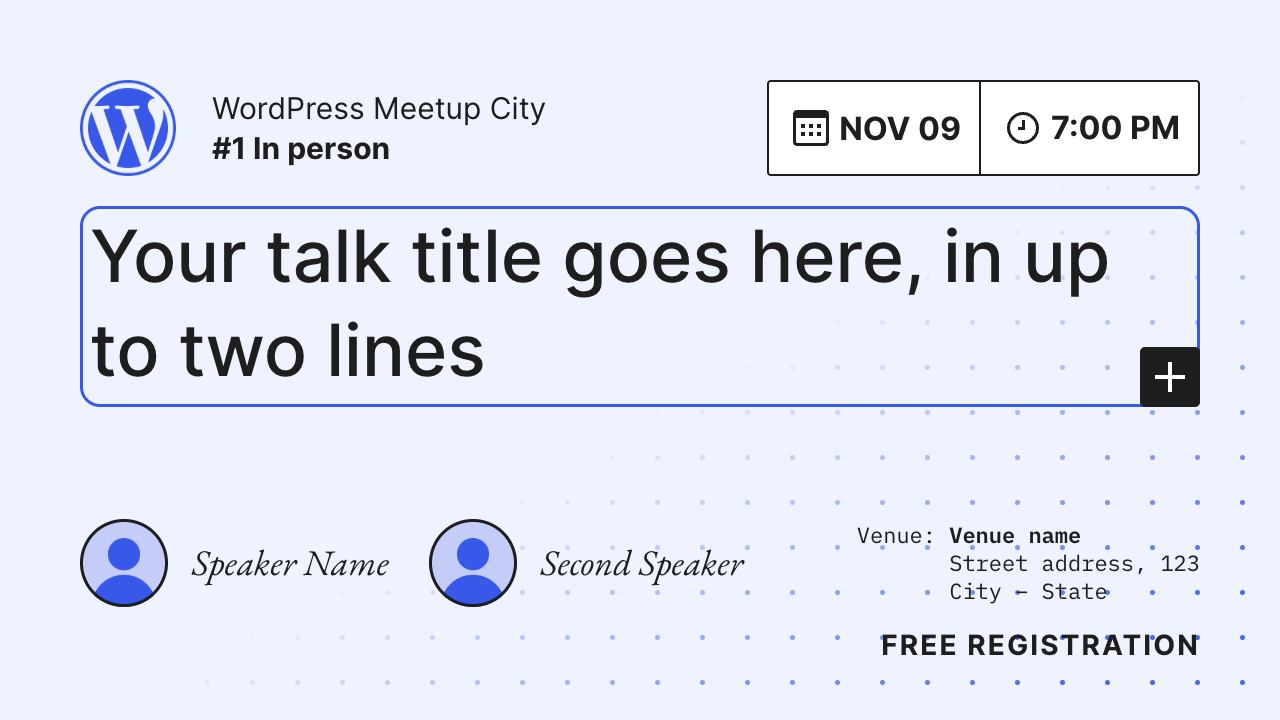
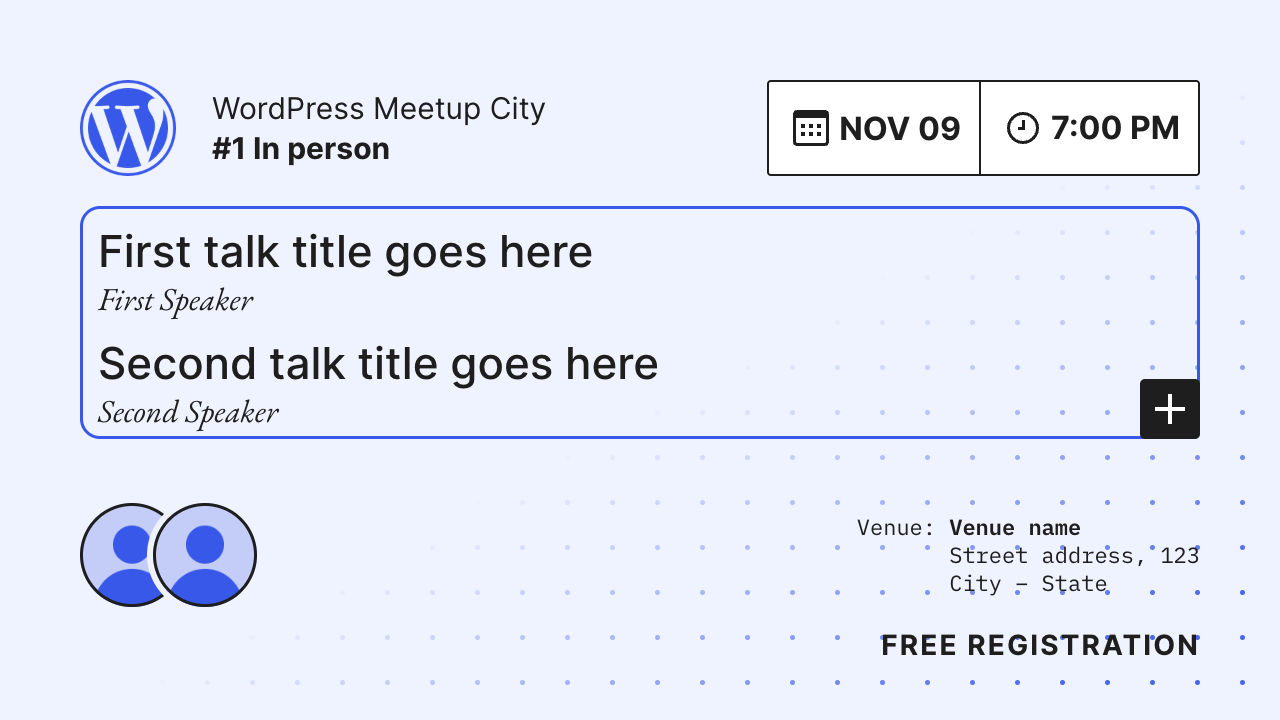
Two speakers: both talks (title and speaker) stacked in the box, photos partly overlapping below

Changed region(s): [[0.0625, 0.3056, 0.9375, 0.6111], [0.0625, 0.7028, 0.5938, 0.8556], [0.6562, 0.7028, 0.9375, 0.8556]]

diff --git a/meetup-thumbnail-generator/assets/style.css b/meetup-thumbnail-generator/assets/style.css
@@ -209,14 +209,6 @@ body:has(.mtg-thumb-page) .wp-site-blocks {
 	margin-top: auto;
 }
 
-/* One or two speakers (a second .mtg-guest makes both smaller). */
-.mtg-thumb .mtg-guests {
-	display: flex;
-	flex-wrap: wrap;
-	align-items: center;
-	gap: 1rem clamp(1rem, 3.125vw, 2.5rem);
-}
-
 .mtg-thumb .mtg-guest {
 	display: flex;
 	align-items: center;
@@ -238,13 +230,49 @@ body:has(.mtg-thumb-page) .wp-site-blocks {
 	letter-spacing: normal;
 }
 
-.mtg-thumb .mtg-guests:has(> .mtg-guest + .mtg-guest) .mtg-avatar img {
-	width: clamp(3rem, 6.875vw, 88px);
-	height: clamp(3rem, 6.875vw, 88px);
+/* Two talks: each title with its speaker in the box, one above the other
+   (clear of the inserter on the right), and the two photos partly
+   overlapping below, the second one over the first with a ring in the
+   background color. */
+.mtg-thumb .mtg-talks {
+	display: flex;
+	flex-direction: column;
+	grid-area: 1 / 1;
+	gap: clamp(.75rem, 1.5625vw, 1.25rem);
+	padding: clamp(.5rem, 1.25vw, 1rem) clamp(2rem, 4.6875vw, 3.75rem) 0 clamp(.25rem, .625vw, .5rem);
 }
 
-.mtg-thumb .mtg-guests:has(> .mtg-guest + .mtg-guest) .mtg-guest-name {
-	font-size: clamp(1.25rem, 2.8125vw, 2.25rem);
+.mtg-thumb .mtg-talk {
+	display: flex;
+	flex-direction: column;
+	gap: clamp(.125rem, .3125vw, .25rem);
+}
+
+.mtg-thumb .mtg-talk-title {
+	font: 500 clamp(1.25rem, 3.4375vw, 2.75rem)/1.2 "MTG Inter", sans-serif;
+	letter-spacing: normal;
+	color: inherit;
+}
+
+.mtg-thumb .mtg-talk-speaker {
+	font: italic 400 clamp(1rem, 2.5vw, 2rem)/1.1 "MTG EB Garamond", serif;
+	letter-spacing: normal;
+}
+
+.mtg-thumb .mtg-avatars {
+	--size: clamp(3.5rem, 8.125vw, 104px);
+	display: flex;
+	align-items: center;
+}
+
+.mtg-thumb .mtg-avatars .mtg-avatar img {
+	width: var(--size);
+	height: var(--size);
+	box-shadow: 0 0 0 clamp(3px, .46875vw, 6px) #eff2ff;
+}
+
+.mtg-thumb .mtg-avatars .mtg-avatar + .mtg-avatar {
+	margin-left: calc(-.3 * var(--size));
 }
 
 /* "Local: " then the address lines under the name (hanging indent of 7
@@ -416,15 +444,11 @@ body:has(.mtg-thumb-page) .wp-site-blocks {
 		border-radius: calc(2.67 * var(--u));
 	}
 
-	.mtg-thumb .mtg-guests {
+	.mtg-thumb .mtg-guest,
+	.mtg-thumb .mtg-avatars {
 		grid-area: guest;
-		flex-wrap: nowrap;
 		gap: calc(12 * var(--u));
 		margin-top: calc(12 * var(--u));
-	}
-
-	.mtg-thumb .mtg-guest {
-		gap: calc(12 * var(--u));
 	}
 
 	.mtg-thumb .mtg-avatar img {
@@ -438,19 +462,31 @@ body:has(.mtg-thumb-page) .wp-site-blocks {
 		font-size: calc(23 * var(--u));
 	}
 
-	.mtg-thumb .mtg-guests:has(> .mtg-guest + .mtg-guest) .mtg-guest {
-		flex: 1;
-		gap: calc(8 * var(--u));
+	.mtg-thumb .mtg-avatars {
+		--size: calc(52 * var(--u));
+		gap: 0;
 	}
 
-	.mtg-thumb .mtg-guests:has(> .mtg-guest + .mtg-guest) .mtg-avatar img {
-		width: calc(40 * var(--u));
-		height: calc(40 * var(--u));
+	.mtg-thumb .mtg-avatars .mtg-avatar img {
+		box-shadow: 0 0 0 calc(2.5 * var(--u)) #eff2ff;
 	}
 
-	.mtg-thumb .mtg-guests:has(> .mtg-guest + .mtg-guest) .mtg-guest-name {
+	.mtg-thumb .mtg-talks {
+		gap: calc(10 * var(--u));
+		padding: 0 calc(20 * var(--u)) 0 0;
+	}
+
+	.mtg-thumb .mtg-talk {
+		gap: calc(2 * var(--u));
+	}
+
+	.mtg-thumb .mtg-talk-title {
 		font-size: calc(17 * var(--u));
-		line-height: 1.05;
+		line-height: calc(21 * var(--u));
+	}
+
+	.mtg-thumb .mtg-talk-speaker {
+		font-size: calc(14 * var(--u));
 	}
 
 	.mtg-thumb .mtg-description {

diff --git a/meetup-thumbnail-generator/meetup-thumbnail-generator.php b/meetup-thumbnail-generator/meetup-thumbnail-generator.php
@@ -94,8 +94,9 @@ function mtg_image( $class_name, $file, $alt ) {
  * @param string $html       Content.
  * @return string
  */
-function mtg_heading( $class_name, $html ) {
-	return '<!-- wp:heading' . mtg_attrs( array( 'level' => 1, 'className' => $class_name ) ) . " -->\n<h1 class=\"wp-block-heading $class_name\">$html</h1>\n<!-- /wp:heading -->\n";
+function mtg_heading( $class_name, $html, $level = 1 ) {
+	$attrs = 2 === $level ? array( 'className' => $class_name ) : array( 'level' => $level, 'className' => $class_name );
+	return '<!-- wp:heading' . mtg_attrs( $attrs ) . " -->\n<h$level class=\"wp-block-heading $class_name\">$html</h$level>\n<!-- /wp:heading -->\n";
 }
 
 /**
@@ -107,21 +108,25 @@ function mtg_heading( $class_name, $html ) {
  * @return string
  */
 function mtg_thumbnail_markup( $speakers, $sponsors ) {
-	$guests = array();
-	$names  = array( 'Speaker Name', 'Second Speaker' );
-	for ( $i = 0; $i < $speakers; $i++ ) {
-		$guests[] = mtg_group(
+	$details = array();
+	if ( 1 === $speakers ) {
+		$details[] = mtg_group(
 			'mtg-guest',
 			array(
-				mtg_image( 'mtg-avatar', 0 === $i ? 'speaker.jpg' : 'speaker-2.jpg', 'Photo of ' . $names[ $i ] ),
-				mtg_paragraph( 'mtg-guest-name', $names[ $i ] ),
+				mtg_image( 'mtg-avatar', 'speaker.jpg', 'Photo of Speaker Name' ),
+				mtg_paragraph( 'mtg-guest-name', 'Speaker Name' ),
 			)
 		);
-	}
-
-	$details = array();
-	if ( $guests ) {
-		$details[] = mtg_group( 'mtg-guests', $guests );
+	} elseif ( 2 === $speakers ) {
+		// Two talks: the photos partly overlap below the box, and each talk
+		// title with its speaker goes in the box, one above the other.
+		$details[] = mtg_group(
+			'mtg-avatars',
+			array(
+				mtg_image( 'mtg-avatar', 'speaker.jpg', 'Photo of First Speaker' ),
+				mtg_image( 'mtg-avatar', 'speaker-2.jpg', 'Photo of Second Speaker' ),
+			)
+		);
 	}
 	$details[] = mtg_paragraph( 'mtg-description', 'Venue: <strong>Venue name</strong><br>Street address, 123<br>City - State' );
 
@@ -138,7 +143,22 @@ function mtg_thumbnail_markup( $speakers, $sponsors ) {
 	}
 	$bottom[] = mtg_paragraph( 'mtg-signup', 'Free registration' );
 
-	$title = $speakers ? 'Your talk title goes here, in up to two lines' : 'Meetup night: networking and lightning talks';
+	if ( 2 === $speakers ) {
+		$talks = array();
+		foreach ( array( array( 'First talk title goes here', 'First Speaker' ), array( 'Second talk title goes here', 'Second Speaker' ) ) as $talk ) {
+			$talks[] = mtg_group(
+				'mtg-talk',
+				array(
+					mtg_heading( 'mtg-talk-title', $talk[0], 2 ),
+					mtg_paragraph( 'mtg-talk-speaker', $talk[1] ),
+				)
+			);
+		}
+		$title_box = mtg_group( 'mtg-title-box', array( mtg_group( 'mtg-talks', $talks ) ) );
+	} else {
+		$title     = $speakers ? 'Your talk title goes here, in up to two lines' : 'Meetup night: networking and lightning talks';
+		$title_box = mtg_group( 'mtg-title-box', array( mtg_heading( 'mtg-title', $title ) ) );
+	}
 
 	return mtg_group(
 		'mtg-thumb',
@@ -169,7 +189,7 @@ function mtg_thumbnail_markup( $speakers, $sponsors ) {
 				),
 				'header'
 			),
-			mtg_group( 'mtg-title-box', array( mtg_heading( 'mtg-title', $title ) ) ),
+			$title_box,
 			mtg_group( 'mtg-details', $details ),
 			mtg_group( 'mtg-bottom', $bottom ),
 		),

diff --git a/README.md b/README.md
@@ -19,7 +19,9 @@ Each page is two pieces in one, by the window width:
 
 ![One speaker, with sponsors](shots/one-speaker-sponsors-1280x720.png)
 
-<img src="shots/one-speaker-sponsors-1080x1350.png" width="270" alt="The same thumbnail as a 4:5 post"> <img src="shots/two-speakers-1080x1350.png" width="270" alt="Two speakers, no sponsors, as a 4:5 post"> <img src="shots/no-speaker-sponsors-1080x1350.png" width="270" alt="No speaker, with sponsors, as a 4:5 post">
+![Two speakers, with sponsors](shots/two-speakers-sponsors-1280x720.png)
+
+<img src="shots/one-speaker-sponsors-1080x1350.png" width="270" alt="The same thumbnail as a 4:5 post"> <img src="shots/two-speakers-sponsors-1080x1350.png" width="270" alt="Two talks with overlapping photos, as a 4:5 post"> <img src="shots/no-speaker-sponsors-1080x1350.png" width="270" alt="No speaker, with sponsors, as a 4:5 post">
 
 ## Export
 
@@ -34,7 +36,7 @@ The plugin in [`meetup-thumbnail-generator/`](meetup-thumbnail-generator/):
 
 - registers one block pattern per variation (category "Meetup thumbnail"), with the layout locked so only the content is edited (`templateLock: contentOnly`);
 - registers the "Meetup thumbnail" page template: only the page content, without header, footer or admin bar;
-- loads one stylesheet (`assets/style.css`) on the front end and in the editor, with Inter, EB Garamond and IBM Plex Mono bundled. A second speaker makes both speakers smaller (`:has()`), and the call to action stays on the right when there are no sponsors.
+- loads one stylesheet (`assets/style.css`) on the front end and in the editor, with Inter, EB Garamond and IBM Plex Mono bundled. With two speakers, the box holds both talks (title and speaker, one above the other) and the two photos partly overlap below it; without sponsors, the call to action stays on the right.
 
 [`blueprint.json`](blueprint.json) installs the plugin from this repository and creates the pages (`mtg_install_demo()`).
 
